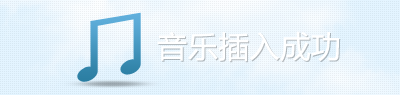
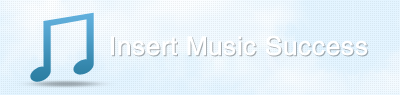
bugfix

Changed region(s): [[0.03, 0.0421, 0.93, 0.9263]]

diff --git a/Public/plugin/ueditor/lang/zh-cn/zh-cn.js b/Public/plugin/ueditor/lang/zh-cn/zh-cn.js
@@ -1,150 +1,150 @@
 /**
- * 中文语言包
+ * English language package
  */
-UM.I18N['zh-cn'] = {
+UM.I18N['en'] = {
     'labelMap':{
-        'anchor':'锚点', 'undo':'撤销', 'redo':'重做', 'bold':'加粗', 'indent':'首行缩进', 'snapscreen':'截图',
-        'italic':'斜体', 'underline':'下划线', 'strikethrough':'删除线', 'subscript':'下标','fontborder':'字符边框',
-        'superscript':'上标', 'formatmatch':'格式刷', 'source':'源代码', 'blockquote':'引用',
-        'pasteplain':'纯文本粘贴模式', 'selectall':'全选', 'print':'打印', 'preview':'预览',
-        'horizontal':'分隔线', 'removeformat':'清除格式', 'time':'时间', 'date':'日期',
-        'unlink':'取消链接', 'insertrow':'前插入行', 'insertcol':'前插入列', 'mergeright':'右合并单元格', 'mergedown':'下合并单元格',
-        'deleterow':'删除行', 'deletecol':'删除列', 'splittorows':'拆分成行', 'splittocols':'拆分成列', 'splittocells':'完全拆分单元格',
-        'mergecells':'合并多个单元格', 'deletetable':'删除表格', 'cleardoc':'清空文档','insertparagraphbeforetable':"表格前插入行",'insertcode':'代码语言','fontfamily':'字体', 'fontsize':'字号', 'paragraph':'段落格式', 'image':'图片',
-        'edittable':'表格属性','edittd':'单元格属性', 'link':'超链接','emotion':'表情', 'spechars':'特殊字符', 'searchreplace':'查询替换', 'map':'百度地图', 'gmap':'Google地图',
-        'video':'视频', 'help':'帮助', 'justifyleft':'居左对齐', 'justifyright':'居右对齐', 'justifycenter':'居中对齐',
-        'justifyjustify':'两端对齐', 'forecolor':'字体颜色', 'backcolor':'背景色', 'insertorderedlist':'有序列表',
-        'insertunorderedlist':'无序列表', 'fullscreen':'全屏', 'directionalityltr':'从左向右输入', 'directionalityrtl':'从右向左输入',
-        'rowspacingtop':'段前距', 'rowspacingbottom':'段后距', 'highlightcode':'插入代码', 'pagebreak':'分页', 'insertframe':'插入Iframe', 'imagenone':'默认',
-        'imageleft':'左浮动', 'imageright':'右浮动', 'attachment':'附件', 'imagecenter':'居中', 'wordimage':'图片转存',
-        'lineheight':'行间距','edittip' :'编辑提示','customstyle':'自定义标题', 'autotypeset':'自动排版', 'webapp':'百度应用',
-        'touppercase':'字母大写', 'tolowercase':'字母小写','background':'背景','template':'模板','scrawl':'涂鸦','music':'音乐','inserttable':'插入表格',
-        'drafts': '草稿箱', 'formula':'数学公式'
-
-
+        'anchor':'Anchor', 'undo':'Undo', 'redo':'Redo', 'bold':'Bold', 'indent':'Indent', 'snapscreen':'SnapScreen',
+        'italic':'Italic', 'underline':'Underline', 'strikethrough':'Strikethrough', 'subscript':'SubScript','fontborder':'text border',
+        'superscript':'SuperScript', 'formatmatch':'Format Match', 'source':'Source', 'blockquote':'BlockQuote',
+        'pasteplain':'PastePlain', 'selectall':'SelectAll', 'print':'Print', 'preview':'Preview',
+        'horizontal':'Horizontal', 'removeformat':'RemoveFormat', 'time':'Time', 'date':'Date',
+        'unlink':'Unlink', 'insertrow':'InsertRow', 'insertcol':'InsertCol', 'mergeright':'MergeRight', 'mergedown':'MergeDown',
+        'deleterow':'DeleteRow', 'deletecol':'DeleteCol', 'splittorows':'SplitToRows','insertcode':'insert code',
+        'splittocols':'SplitToCols', 'splittocells':'SplitToCells','deletecaption':'DeleteCaption','inserttitle':'InsertTitle',
+        'mergecells':'MergeCells', 'deletetable':'DeleteTable', 'cleardoc':'Clear', 'insertparagraphbeforetable':"InsertParagraphBeforeTable",
+        'fontfamily':'FontFamily', 'fontsize':'FontSize', 'paragraph':'Paragraph', 'image':'Image','edittable':'Edit Table', 'edittd':'Edit Td','link':'Link',
+        'emotion':'Emotion', 'spechars':'Spechars', 'searchreplace':'SearchReplace', 'map':'BaiduMap', 'gmap':'GoogleMap',
+        'video':'Video', 'help':'Help', 'justifyleft':'JustifyLeft', 'justifyright':'JustifyRight', 'justifycenter':'JustifyCenter',
+        'justifyjustify':'Justify', 'forecolor':'FontColor', 'backcolor':'BackColor', 'insertorderedlist':'OL',
+        'insertunorderedlist':'UL', 'fullscreen':'FullScreen', 'directionalityltr':'EnterFromLeft', 'directionalityrtl':'EnterFromRight',
+        'rowspacingtop':'RowSpacingTop', 'rowspacingbottom':'RowSpacingBottom', 'highlightcode':'Code', 'pagebreak':'PageBreak', 'insertframe':'Iframe', 'imagenone':'Default',
+        'imageleft':'ImageLeft', 'imageright':'ImageRight', 'attachment':'Attachment', 'imagecenter':'ImageCenter', 'wordimage':'WordImage',
+        'lineheight':'LineHeight','edittip':'EditTip','customstyle':'CustomStyle', 'scrawl':'Scrawl', 'autotypeset':'AutoTypeset',
+        'webapp':'WebAPP', 'touppercase':'UpperCase', 'tolowercase':'LowerCase','template':'Template','background':'Background','inserttable':'InsertTable',
+        'drafts': 'drafts', 'formula':'formula'
     },
-    'paragraph':{'p':'段落', 'h1':'标题 1', 'h2':'标题 2', 'h3':'标题 3', 'h4':'标题 4', 'h5':'标题 5', 'h6':'标题 6'},
+    'paragraph':{'p':'Paragraph', 'h1':'Title 1', 'h2':'Title 2', 'h3':'Title 3', 'h4':'Title 4', 'h5':'Title 5', 'h6':'Title 6'},
     'fontfamily':{
-        'songti':'宋体',
-        'kaiti':'楷体',
-        'heiti':'黑体',
-        'lishu':'隶书',
-        'yahei':'微软雅黑',
-        'andaleMono':'andale mono',
-        'arial': 'arial',
-        'arialBlack':'arial black',
-        'comicSansMs':'comic sans ms',
-        'impact':'impact',
-        'timesNewRoman':'times new roman'
+        'songti':'Sim sun',
+        'kaiti':'Sim kai',
+        'heiti':'Sim hei',
+        'lishu':'Sim li',
+        'yahei': 'Microsoft yahei',
+        'andaleMono':'Andale mono',
+        'arial': 'Arial',
+        'arialBlack':'Arial black',
+        'comicSansMs':'Comic sans ms',
+        'impact':'Impact',
+        'timesNewRoman':'Times new roman'
     },
-    'ok':"确认",
-    'cancel':"取消",
-    'closeDialog':"关闭对话框",
-    'tableDrag':"表格拖动必须引入uiUtils.js文件！",
-    'autofloatMsg':"工具栏浮动依赖编辑器UI，您首先需要引入UI文件!",
-    'anthorMsg':"链接",
-    'clearColor':'清空颜色',
-    'standardColor':'标准颜色',
-    'themeColor':'主题颜色',
-    'property':'属性',
-    'default':'默认',
-    'modify':'修改',
-    'justifyleft':'左对齐',
-    'justifyright':'右对齐',
-    'justifycenter':'居中',
-    'justify':'默认',
-    'clear':'清除',
-    'anchorMsg':'锚点',
-    'delete':'删除',
-    'clickToUpload':"点击上传",
-    'unset':'尚未设置语言文件',
-    't_row':'行',
-    't_col':'列',
-    'more':'更多',
-    'pasteOpt':'粘贴选项',
-    'pasteSourceFormat':"保留源格式",
-    'tagFormat':'只保留标签',
-    'pasteTextFormat':'只保留文本',
+    'ok':"OK",
+    'cancel':"Cancel",
+    'closeDialog':"closeDialog",
+    'tableDrag':"You must import the file uiUtils.js before drag! ",
+    'autofloatMsg':"The plugin AutoFloat depends on EditorUI!",
+    'anthorMsg':"Link",
+    'clearColor':'Clear',
+    'standardColor':'Standard color',
+    'themeColor':'Theme color',
+    'property':'Property',
+    'default':'Default',
+    'modify':'Modify',
+    'justifyleft':'Justify Left',
+    'justifyright':'Justify Right',
+    'justifycenter':'Justify Center',
+    'justify':'Default',
+    'clear':'Clear',
+    'anchorMsg':'Anchor',
+    'delete':'Delete',
+    'clickToUpload':"Click to upload",
+    'unset':"Language hasn't been set!",
+    't_row':'row',
+    't_col':'col',
+    'more':'More',
+    'pasteOpt':'Paste Option',
+    'pasteSourceFormat':"Keep Source Formatting",
+    'tagFormat':'Keep tag',
+    'pasteTextFormat':'Keep Text only',
 
     //===============dialog i18N=======================
     'image':{
         'static':{
-            'lang_tab_local':"本地上传",
-            'lang_tab_imgSearch':"网络图片",
-            'lang_input_dragTip':"支持图片拖拽上传",
-            'lang_btn_add':"添加"
+            'lang_tab_local':"Local Upload",
+            'lang_tab_imgSearch':"Network Pictures",
+            'lang_input_dragTip':"Support drag upload",
+            'lang_btn_add':"Add"
         },
-        'uploadError': '上传出错'
+        'uploadError': 'Upload Error'
     },
     'emotion':{
         'static':{
-            'lang_input_choice':'精选',
-            'lang_input_Tuzki':'兔斯基',
+            'lang_input_choice':'Choice',
+            'lang_input_Tuzki':'Tuzki',
+            'lang_input_lvdouwa':'LvDouWa',
             'lang_input_BOBO':'BOBO',
-            'lang_input_lvdouwa':'绿豆蛙',
-            'lang_input_babyCat':'baby猫',
-            'lang_input_bubble':'泡泡',
-            'lang_input_youa':'有啊'
+            'lang_input_babyCat':'BabyCat',
+            'lang_input_bubble':'Bubble',
+            'lang_input_youa':'YouA'
         }
     },
     'gmap':{
         'static':{
-            'lang_input_address':'地址',
-            'lang_input_search':'搜索',
-            'address':{'value':"北京"}
+            'lang_input_address':'Address:',
+            'lang_input_search':'Search',
+            'address':{'value':"Beijing"}
         },
-        'searchError':'无法定位到该地址!'
+        'searchError':'Unable to locate the address!'
     },
     'link':{
         'static':{
-            'lang_input_text':'文本内容：',
-            'lang_input_url':'链接地址：',
-            'lang_input_title':'标题：',
-            'lang_input_target':'是否在新窗口打开：'
+            'lang_input_text':'Text：',
+            'lang_input_url':'URL：',
+            'lang_input_title':'Title：',
+            'lang_input_target':'open in new window：'
         },
-        'validLink':'只支持选中一个链接时生效',
-        'httpPrompt':'您输入的超链接中不包含http等协议名称，默认将为您添加http://前缀'
+        'validLink':'Supports only effective when a link is selected',
+        'httpPrompt':'The hyperlink you enter should start with "http|https|ftp://"!'
     },
     'map':{
         'static':{
-            'lang_city':"城市",
-            'lang_address':"地址",
-            'city':{'value':"北京"},
-            'lang_search':"搜索",
-            'lang_dynamicmap':"插入动态地图"
+            'lang_city':"City",
+            'lang_address':"Address",
+            'city':{'value':"Beijing"},
+            'lang_search':"Search",
+            'lang_dynamicmap':"Dynamic map"
         },
-        'cityMsg':"请选择城市",
-        'errorMsg':"抱歉，找不到该位置！"
+        'cityMsg':"Please enter the city name!",
+        'errorMsg':"Can't find the place!"
     },
     'video':{
         'static':{
-            'lang_tab_insertV':"插入视频",
-            'lang_video_url':"视频网址",
-            'lang_video_size':"视频尺寸",
-            'lang_videoW':"宽度",
-            'lang_videoH':"高度",
-            'lang_alignment':"对齐方式",
-            'videoSearchTxt':{'value':"请输入搜索关键字！"},
-            'videoType':{'options':["全部", "热门", "娱乐", "搞笑", "体育", "科技", "综艺"]},
-            'videoSearchBtn':{'value':"百度一下"},
-            'videoSearchReset':{'value':"清空结果"}
+            'lang_tab_insertV':"Video",
+            'lang_video_url':" URL ",
+            'lang_video_size':"Video Size",
+            'lang_videoW':"Width",
+            'lang_videoH':"Height",
+            'lang_alignment':"Alignment",
+            'videoSearchTxt':{'value':"Enter the search keyword!"},
+            'videoType':{'options':["All", "Hot", "Entertainment", "Funny", "Sports", "Science", "variety"]},
+            'videoSearchBtn':{'value':"Search in Baidu"},
+            'videoSearchReset':{'value':"Clear result"}
         },
-        'numError':"请输入正确的数值，如123,400",
-        'floatLeft':"左浮动",
-        'floatRight':"右浮动",
-        'default':"默认",
-        'block':"独占一行",
-        'urlError':"输入的视频地址有误，请检查后再试！",
-        'loading':" &nbsp;视频加载中，请等待……",
-        'clickToSelect':"点击选中",
-        'goToSource':'访问源视频',
-        'noVideo':" &nbsp; &nbsp;抱歉，找不到对应的视频，请重试！"
+        'numError':"Please enter the correct Num. e.g 123,400",
+        'floatLeft':"Float left",
+        'floatRight':"Float right",
+        'default':"Default",
+        'block':"Display in block",
+        'urlError':"The video url format may be wrong!",
+        'loading':" &nbsp;The video is loading, please wait…",
+        'clickToSelect':"Click to select",
+        'goToSource':'Visit source video ',
+        'noVideo':" &nbsp; &nbsp;Sorry,can't find the video,please try again!"
     },
     'formula':{
         'static':{
-            'lang_tab_common':'常用公式',
-            'lang_tab_symbol':'符号',
-            'lang_tab_letter':'字母'
+            'lang_tab_common':'Common',
+            'lang_tab_symbol':'Symbol',
+            'lang_tab_letter':'Letter'
         }
     }
 };

diff --git a/Application/Home/View/HomePage/forumshow.html b/Application/Home/View/HomePage/forumshow.html
@@ -107,7 +107,7 @@
                             <if condition="($user_name eq '')">
                                 <div class="no-login">
                                     You need to log in before you reply.
-                                    <a href=""> Log In</a>
+                                    <a href="javascript:void(0);" class="J-add-note"> Log In</a>
                                     |
                                     <a href="{:U('Register/register')}">Register</a>
                                 </div>

diff --git a/Public/js/common.js b/Public/js/common.js
@@ -68,6 +68,7 @@ $(function () {
         addNote: function () {
             var that = this;
             that.checkLogin();
+            return false;
 
             var h = $(document).height()-$(window).height();
             $(document).scrollTop(h);

diff --git a/Public/css/personal.css b/Public/css/personal.css
@@ -1437,7 +1437,7 @@ button.btn,input.btn {
 
 .person_wrap .user .score dl {
     float: left;
-    width: 110px;
+    width: 130px;
     height: 100%;
     margin: 0 30px 0 -23px;
     border-left: 1px solid #dfdfdf;
